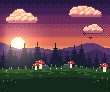
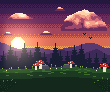
style(cosmetics): 카드 구름을 테두리 없는 부드러운 픽셀 구름으로, 천둥번개는 큰 구름 덩어리 하나
- 참고 그림(파란 하늘의 픽셀 뭉게구름)처럼: 테두리 없이, 노이즈로 흔들리는 들쭉날쭉한 계단 윤곽,
  평평한 바닥, 아래 그림자에서 위 밝은 머리까지 딱딱 끊기는 색 단계, 구름 속 뭉게가 결을 만든다
  (softCloud). 꼭대기는 덜 흔들어 뾰족하지 않고 뭉툭하게
- 크기를 섞었다: 슬라임은 오른쪽 위 큰 덩어리·왼쪽 긴 구름·작은 조각들, 박쥐는 달 아래 구름 띠와
  위쪽 조각들. 천둥번개는 바다 위로 솟은 큰 폭풍 구름 하나와 수평선의 낮은 덩어리

diff --git a/scripts/pixelfx/cards/_bg.js b/scripts/pixelfx/cards/_bg.js
@@ -1,7 +1,7 @@
 // Painted pixel backdrops for the Nexus card scenes: banded skies with dithered seams, silhouettes, moons, stars.
 // Every card is 110 x 92, origin top-left. The portrait sits in the middle (about x 34..76, y 12..56) and the
 // player's name covers the bottom 18 px, so the interesting parts go at the sides and the top.
-import { hex, rand, noise, mix } from "../../core/index.js";
+import { hex, rand, noise, mix, fbm } from "../../core/index.js";
 import { CARD } from "./_card.js";
 
 export const [W, H] = CARD.size;
@@ -169,11 +169,41 @@ export function puffCloud(p, cx, base, w, seed, cols, tall = 0.5) {
       if (!L) { p.px(x, y, y >= base - 1 ? C.shade : C.mid); continue; }
       const nx = (x + 0.5 - L.x) / L.r, ny = (y + 0.5 - L.y) / L.r, d = Math.hypot(nx, ny);
       // an arc where this lobe's rim sits over a lobe behind it
-      const overlap = d > 0.82 && ny < 0.3 && lobes.some((M) => M !== L && Math.hypot(x + 0.5 - M.x, y + 0.5 - M.y) <= M.r - 0.5);
+      // only bigger bumps show their overlap arc, and only a thin one, so big clouds don't turn into scales
+      const overlap = L.r > 4 && d > 1 - 1.2 / L.r && ny < 0.1 && lobes.some((M) => M !== L && Math.hypot(x + 0.5 - M.x, y + 0.5 - M.y) <= M.r - 0.5);
       const light = -nx * 0.55 - ny * 0.85; // lit from the upper left
       const low = (y - (base - 3)) / 3;      // shadow pools along the base
       const v = light - Math.max(0, low) * 0.9 + (BAY[(y & 3) * 4 + (x & 3)] / 16 - 0.5) * 0.35;
       p.px(x, y, overlap ? C.mid : v > 0.15 ? C.hi : v > -0.35 ? C.mid : C.shade);
+    }
+  }
+}
+
+/**
+ * A soft pixel cloud with no outline, the painterly kind: a heap whose top edge wanders with noise (ragged, stair-
+ * stepped), a flat base, and tone that climbs from a shaded underside to bright tops in hard steps, broken up by
+ * the cloud's own billows so it doesn't read as a smooth gradient. w wide, h tall at its highest, base at y.
+ * ramp: shadow .. light (4-6 colours). flat (0..1): 0 a round heap, 1 a long low wisp.
+ */
+export function softCloud(p, cx, base, w, h, seed, ramp, flat = 0) {
+  const K = ramp.map(hex), n = K.length;
+  const x0 = Math.floor(cx - w / 2 - 2), x1 = Math.ceil(cx + w / 2 + 2), y0 = Math.floor(base - h - 4);
+  for (let y = y0; y <= base; y++) {
+    for (let x = x0; x <= x1; x++) {
+      const u = (x + 0.5 - cx) / (w / 2);
+      if (Math.abs(u) > 1.15) continue;
+      // the heap's profile: a dome (or a long low wisp), its edge pushed about by two octaves of noise
+      const v = (base - y + 0.5) / h; // 0 at the base .. 1 at the top
+      const prof = Math.pow(Math.max(0, 1 - u * u), 0.6 + flat * 0.8);
+      const ragged = 0.28 * fbm(x * 0.11, y * 0.11, seed, 3) + 0.12 * fbm(x * 0.3, y * 0.3, seed + 7, 2);
+      // less raggedness high up, so the crown is lumpy rather than spiky
+      if (v - ragged * (1 - 0.45 * Math.min(1, v)) > prof) continue;
+      if (v < 0 || (v < 0.12 && Math.abs(u) > 0.95 - ragged)) continue; // the base tucks in at the ends
+      // tone: brighter toward the top, billows lit on their upper side, a shaded band along the base
+      const billow = fbm(x * 0.09 + 3, y * 0.13, seed + 11, 3);
+      let tone = 0.15 + 0.9 * v + 0.75 * billow - 0.25 * Math.max(0, u);
+      if (y >= base - 1) tone -= 0.5;
+      p.px(x, y, K[Math.max(0, Math.min(n - 1, Math.floor(tone * n)))]);
     }
   }
 }

diff --git a/scripts/pixelfx/cards/bg-storm.js b/scripts/pixelfx/cards/bg-storm.js
@@ -1,7 +1,7 @@
-// Nexus card "천둥번개" backdrop: a storm at sea. Dark storm clouds heaped overhead, a dark heaving sea to the
+// Nexus card "천둥번개" backdrop: a storm at sea. One huge storm cloud heaped up over the sea, a dark heaving sea to the
 // horizon with whitecaps, a black cliff on the right with a lighthouse (its lamp and sweeping beam are animated in
 // card-storm), rocks and spray on the left.
-import { sky, puffCloud, W } from "./_bg.js";
+import { sky, softCloud, W } from "./_bg.js";
 import { CARD } from "./_card.js";
 import { hex, rand, noise } from "../../core/index.js";
 export const meta = { name: "Card bg: storm", desc: "Storm at sea: piled clouds, heaving sea, cliff with a lighthouse.", tags: ["card", "bg"], ...CARD, duration: 0.05, loop: true, fps: 20, bg: "dark", options: { seed: 1 } };
@@ -10,14 +10,13 @@ export const LIGHTHOUSE = { x: 97, top: 30 };
 
 export function draw(p) {
   sky(p, ["#080c1c", "#0c1228", "#111a36", "#172344", "#1e2c54"], 0, 58, 1, 0.55);
-  // storm clouds heaped across the top in two banks: dark slate, cold-lit tops, black outline
-  const STORM = { out: "#04060e", shade: "#141a32", mid: "#222c4c", hi: "#3a4a74" };
-  const FAR = { out: "#060914", shade: "#111830", mid: "#1a2442", hi: "#28365c" };
-  puffCloud(p, 18, 30, 34, 3, FAR, 0.5);
-  puffCloud(p, 70, 28, 38, 5, FAR, 0.6);
-  puffCloud(p, 34, 16, 40, 7, STORM, 0.7);
-  puffCloud(p, 92, 18, 34, 9, STORM, 0.6);
-  puffCloud(p, 60, 40, 24, 11, STORM, 0.3);
+  // one huge storm cloud heaping up over the sea, a lower bank behind it at the horizon (no outline: tone steps
+  // from a near-black underside to cold-lit crowns)
+  const STORM = ["#070a16", "#0e1428", "#18203c", "#243256", "#34467a", "#4a5e94"];
+  const FAR = ["#0a0e1e", "#10172e", "#18213e", "#22304e"];
+  softCloud(p, 92, 48, 46, 12, 11, FAR, 0.6);
+  softCloud(p, 8, 49, 30, 8, 13, FAR, 0.8);
+  softCloud(p, 46, 46, 92, 46, 5, STORM);
 
   // the sea from the horizon down: rows darker toward the viewer, swells and whitecaps
   const HZ = 52;

diff --git a/scripts/pixelfx/cards/bg-slime.js b/scripts/pixelfx/cards/bg-slime.js
@@ -1,7 +1,7 @@
 // Nexus card "통통 슬라임" backdrop: a forest clearing at sunset. A warm sky (purple to pink to gold) so the green
 // slimes stand out against it, a low sun on the left, warm-lit clouds, violet mountains, a dark pine line,
 // then the clearing: a sunlit grass rim, red spotted mushrooms, flowers, mossy stones, ferns framing the corners.
-import { sky, halo, ridge, puffCloud, W } from "./_bg.js";
+import { sky, halo, ridge, softCloud, W } from "./_bg.js";
 import { CARD } from "./_card.js";
 import { hex, rand } from "../../core/index.js";
 export const meta = { name: "Card bg: slime", desc: "Forest clearing at sunset: warm sky, mountains, pines, mushrooms, ferns.", tags: ["card", "bg"], ...CARD, duration: 0.05, loop: true, fps: 20, bg: "dark", options: { seed: 1 } };
@@ -53,11 +53,13 @@ export function draw(p) {
   p.circle(18, 44, 7, hex("#ffd27a"));
   p.circle(18, 44, 6, hex("#ffe6a8"));
   p.circle(17, 43, 4, hex("#fff6dc"));
-  // clouds lit by the low sun: warm cream tops, rose shadow, a plum outline
-  const DUSK = { out: "#6a2c58", shade: "#c0607a", mid: "#f0a08a", hi: "#ffd8b0" };
-  puffCloud(p, 22, 22, 30, 3, DUSK, 0.45);
-  puffCloud(p, 86, 16, 32, 5, DUSK, 0.3);
-  puffCloud(p, 94, 32, 18, 9, DUSK, 0.2);
+  // clouds lit by the low sun: rose undersides to cream crowns, in all sizes
+  const DUSK = ["#6a2c58", "#a0486a", "#d87078", "#f4a088", "#ffcfa8", "#ffe8cc"];
+  softCloud(p, 84, 30, 48, 22, 5, DUSK, 0.1);   // a big heap top right
+  softCloud(p, 20, 20, 30, 8, 3, DUSK, 0.6);    // a long one top left
+  softCloud(p, 46, 34, 14, 4, 9, DUSK, 1);      // scraps
+  softCloud(p, 8, 34, 10, 3, 11, DUSK, 1);
+  softCloud(p, 60, 10, 12, 4, 13, DUSK, 0.8);
   // two birds far off
   for (const [x, y] of [[84, 34], [90, 38]]) { p.px(x - 1, y - 1, INK); p.px(x, y, INK); p.px(x + 1, y - 1, INK); }
 

diff --git a/scripts/pixelfx/cards/bg-bats.js b/scripts/pixelfx/cards/bg-bats.js
@@ -1,7 +1,7 @@
 // Nexus card "박쥐 떼" backdrop: a purple night over a vampire's castle. A huge full moon top left with moonlit violet
 // clouds, violet peaks, the castle big on a crag on the right (towers, pointed roofs, a flag, warm
 // lit windows), a rocky moor in layers with dead trees, and a gnarled branch reaching in from the bottom left.
-import { sky, halo, ridge, stars, moon, puffCloud, W } from "./_bg.js";
+import { sky, halo, ridge, stars, moon, softCloud, W } from "./_bg.js";
 import { CARD } from "./_card.js";
 import { hex, rand } from "../../core/index.js";
 export const meta = { name: "Card bg: bats", desc: "Purple night, full moon, castle on a crag, rocky moor, dead trees.", tags: ["card", "bg"], ...CARD, duration: 0.05, loop: true, fps: 20, bg: "dark", options: { seed: 1 } };
@@ -67,10 +67,12 @@ export function draw(p) {
   halo(p, 20, 20, 40, "#ffe0a0", 0.42);
   moon(p, 20, 20, 13);
 
-  // moonlit clouds, dim violet, one drifting across the moon's foot
-  const NIGHT = { out: "#1a1030", shade: "#3a2a56", mid: "#5a4678", hi: "#8a74aa" };
-  puffCloud(p, 24, 36, 28, 3, NIGHT, 0.3);
-  puffCloud(p, 62, 14, 22, 7, NIGHT, 0.4);
+  // moonlit clouds, dim violet, in all sizes: a bank across the moon's foot, scraps higher up
+  const NIGHT = ["#1c1230", "#2a1c42", "#3c2a58", "#54406e", "#6e5a8c"];
+  softCloud(p, 24, 42, 38, 12, 3, NIGHT, 0.5);
+  softCloud(p, 64, 14, 18, 5, 7, NIGHT, 0.8);
+  softCloud(p, 48, 28, 10, 3, 13, NIGHT, 1);
+  softCloud(p, 100, 30, 14, 4, 17, NIGHT, 0.9);
   // violet peaks, then the crag the castle stands on
   ridge(p, 54, 10, 16, 4, "#2a1a42");
   ridge(p, 60, 6, 10, 8, "#1f1434");
